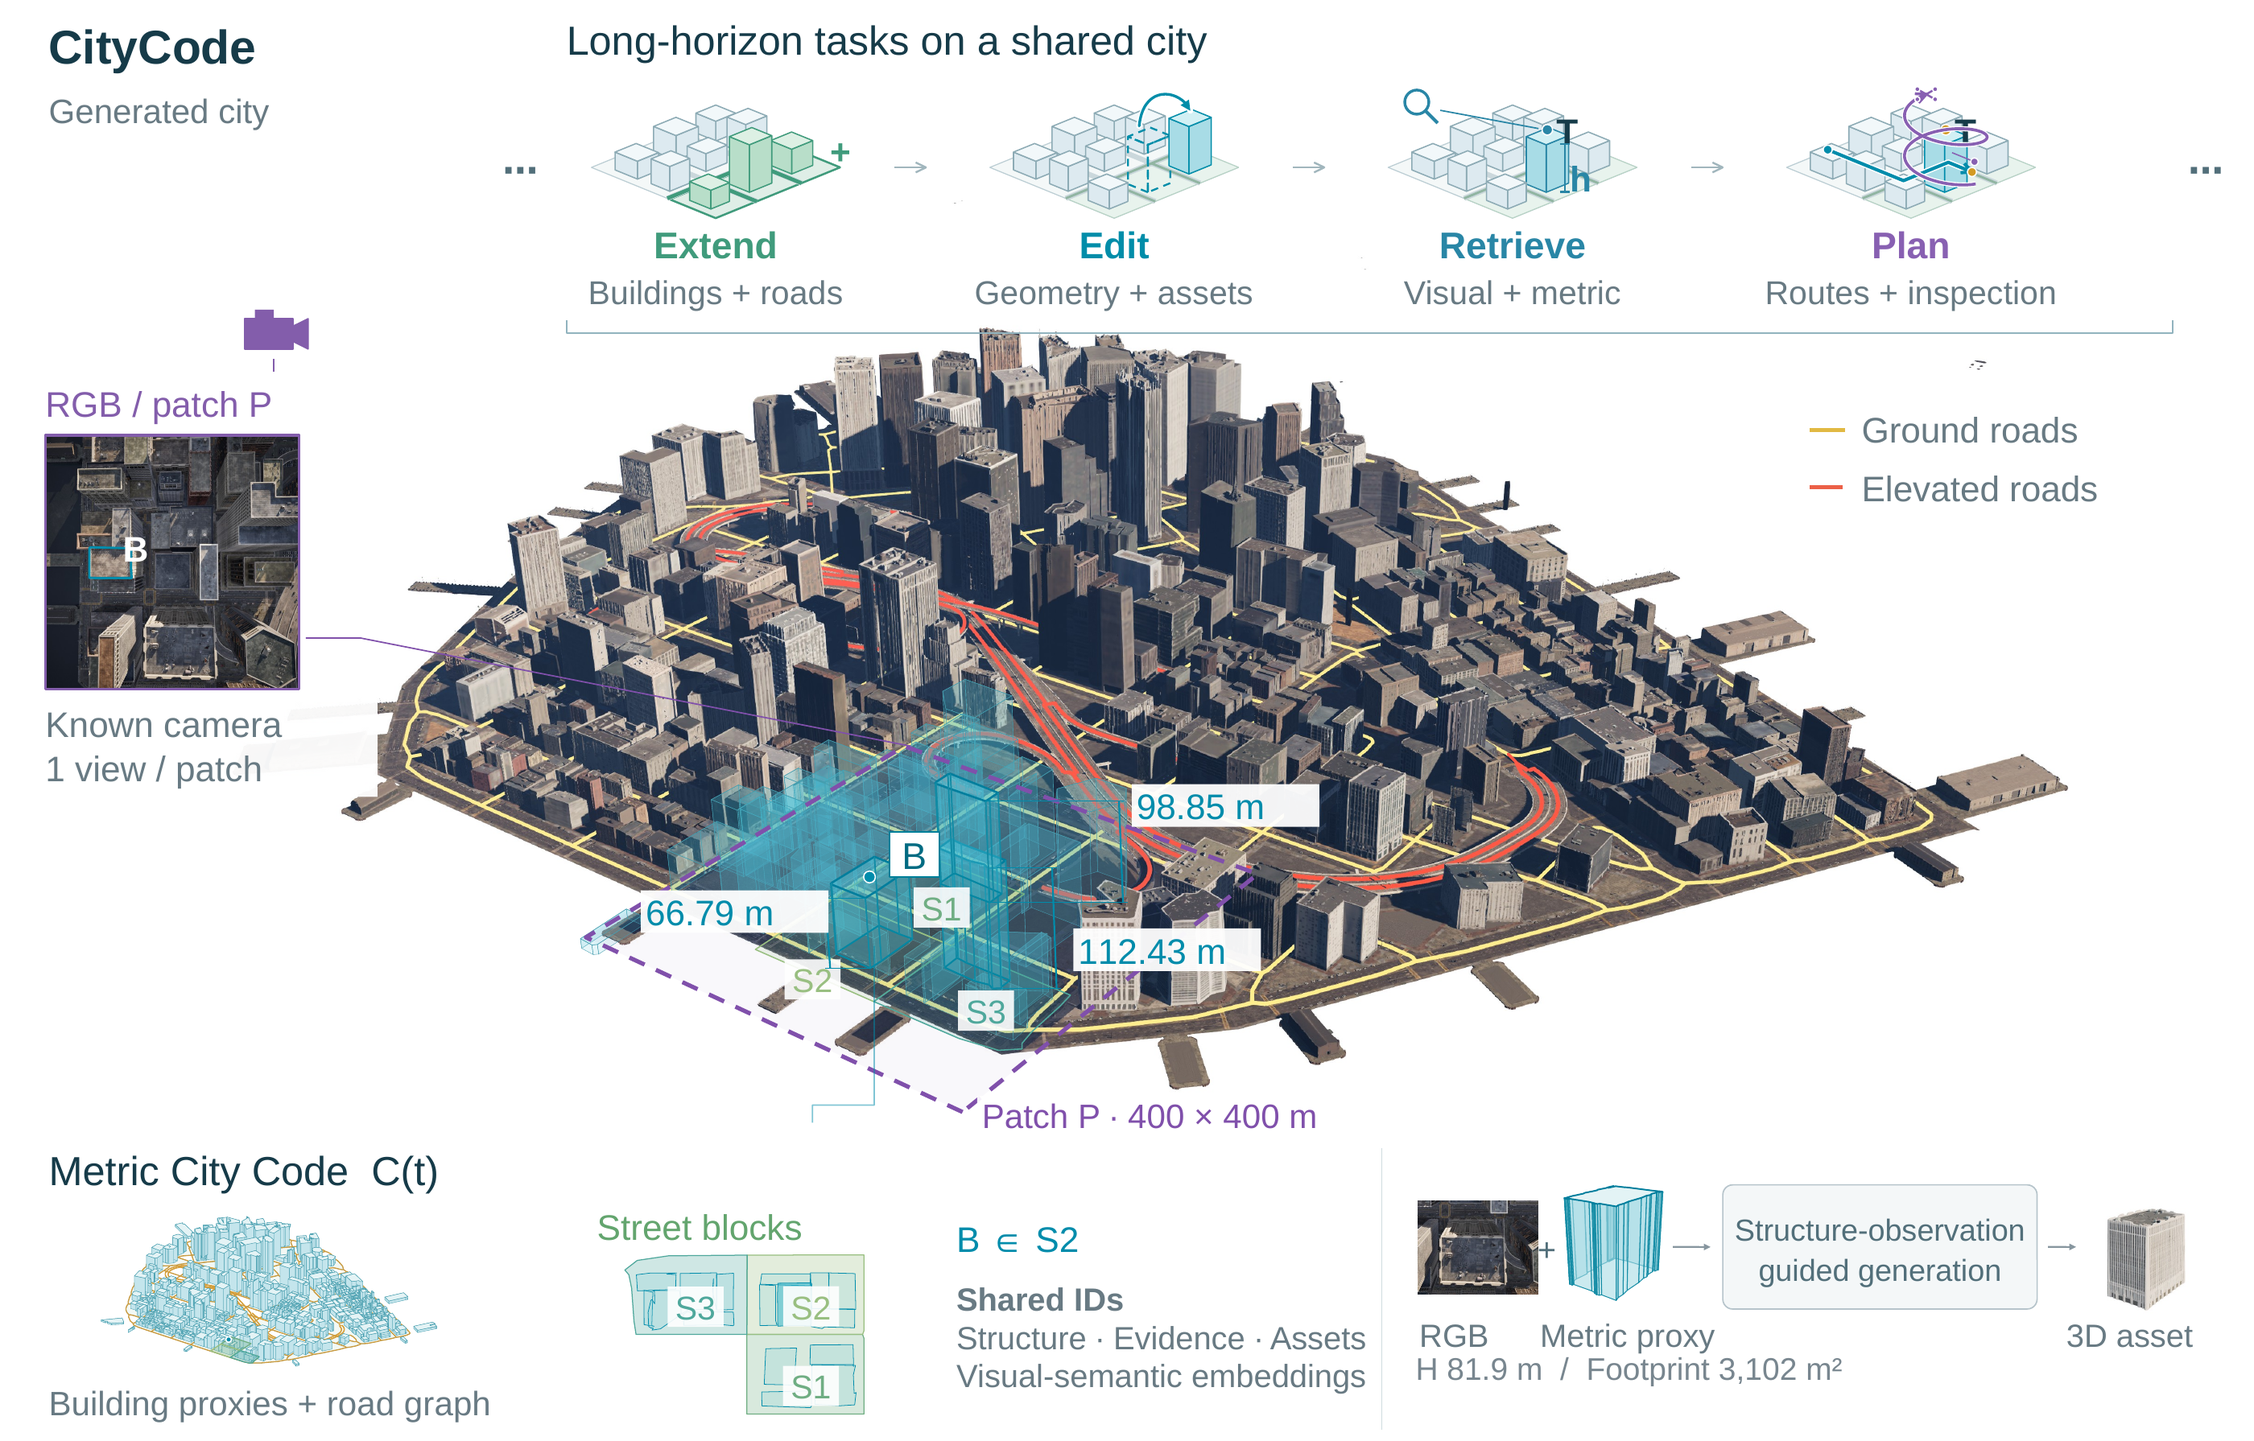
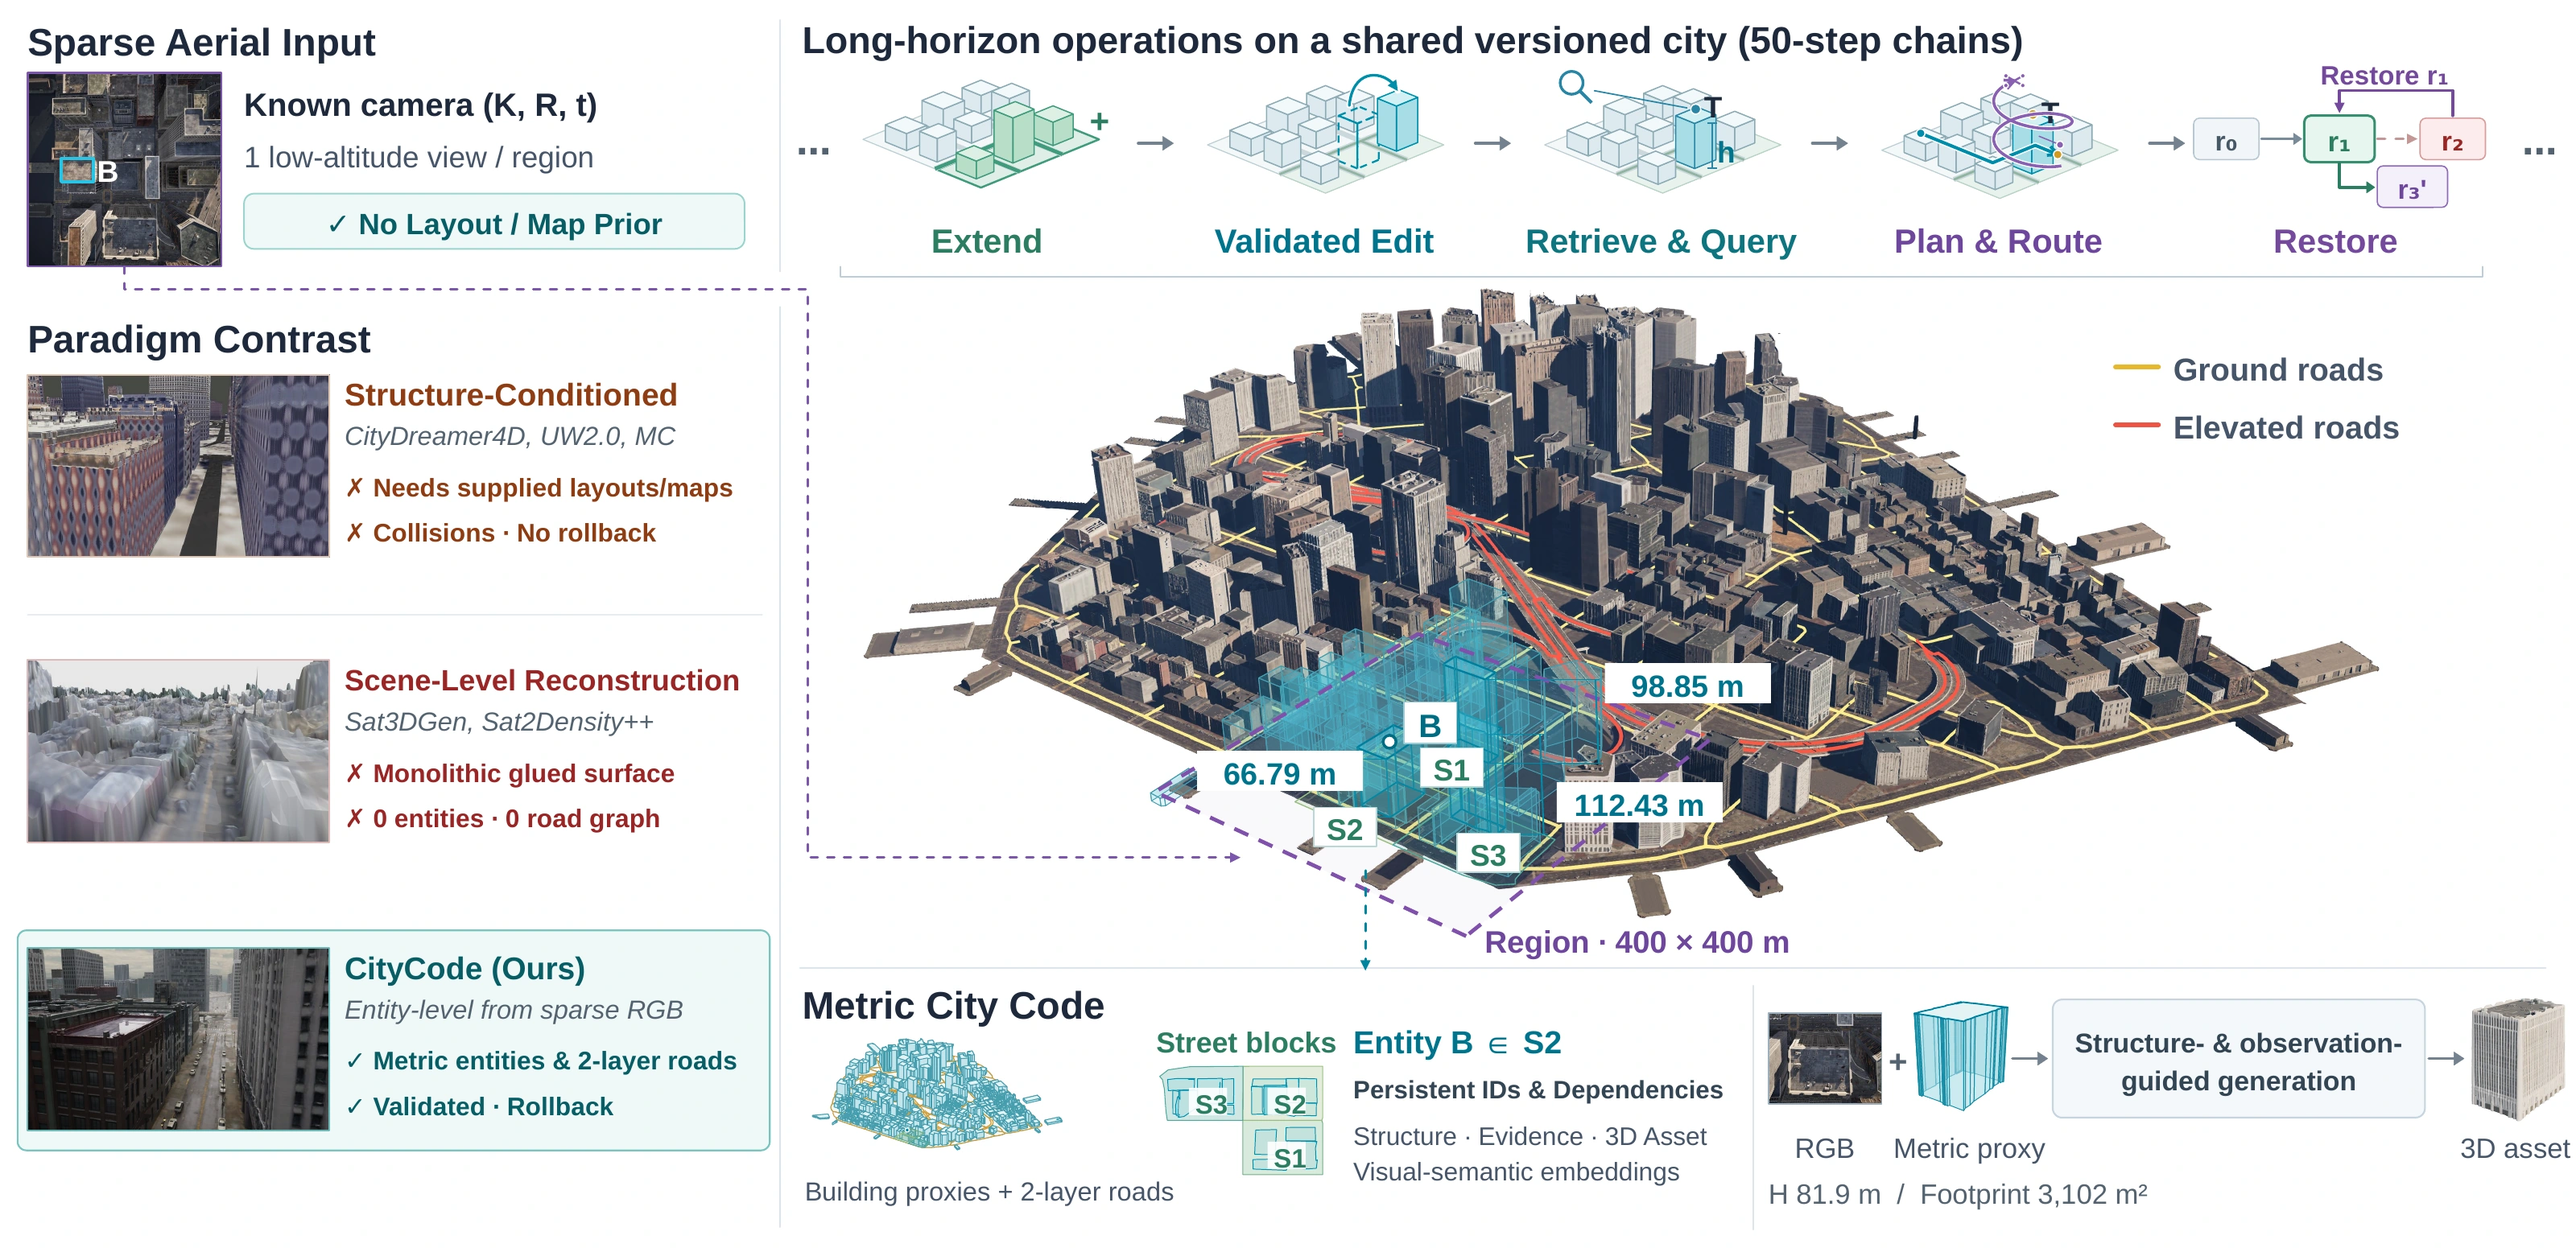
Update the README teaser and describe the building and road representation

diff --git a/README.md b/README.md
@@ -14,9 +14,9 @@ CityCode turns sparse low-altitude aerial observations into metric 3D cities tha
 - Support city extension, block editing, text/image retrieval, navigation, and inspection.
 - Assemble scenes with **high-quality visual effects in Unreal Engine** and explore a reduced-quality preview in the browser.
 
-![CityCode overview: aerial observations, a generated city, shared metric representations, and agentic tasks](media/teaser.webp)
+![Sparse aerial input, a generated 3D city with building and road layers, and agent operations on the shared city state](media/teaser.webp)
 
-*[Figure 1 of the paper](https://arxiv.org/abs/2610.18342): sparse aerial input → metric city representation → generated city → agentic operations.*
+*Air2Code uses one aerial image per region and its camera parameters to recover building geometry and ground-level and elevated roads. CityCode gives those buildings and roads persistent identities, so agents can query the city, validate edits, plan routes, and restore earlier versions.*
 
 ## Video
 
